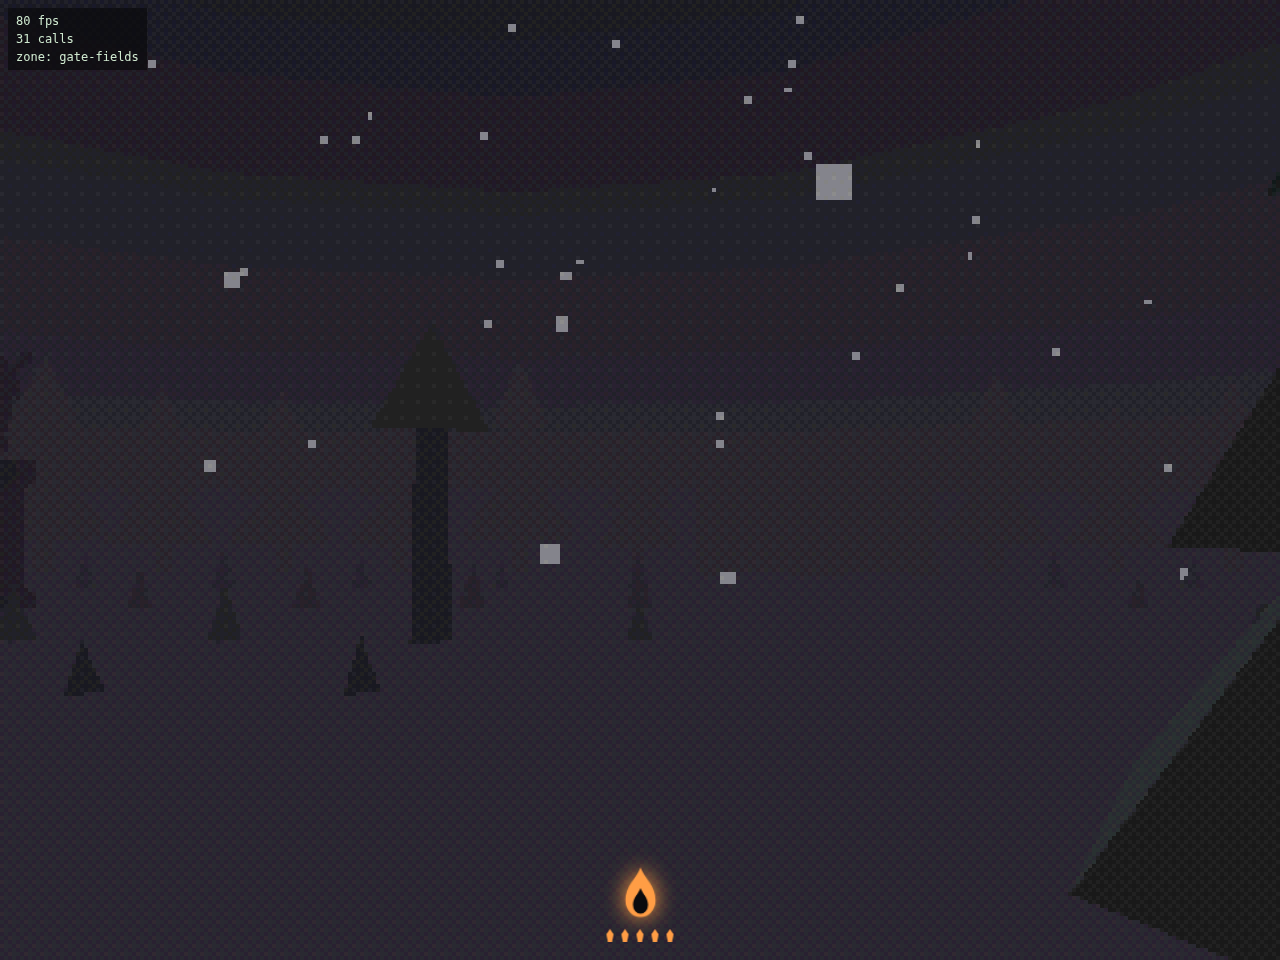
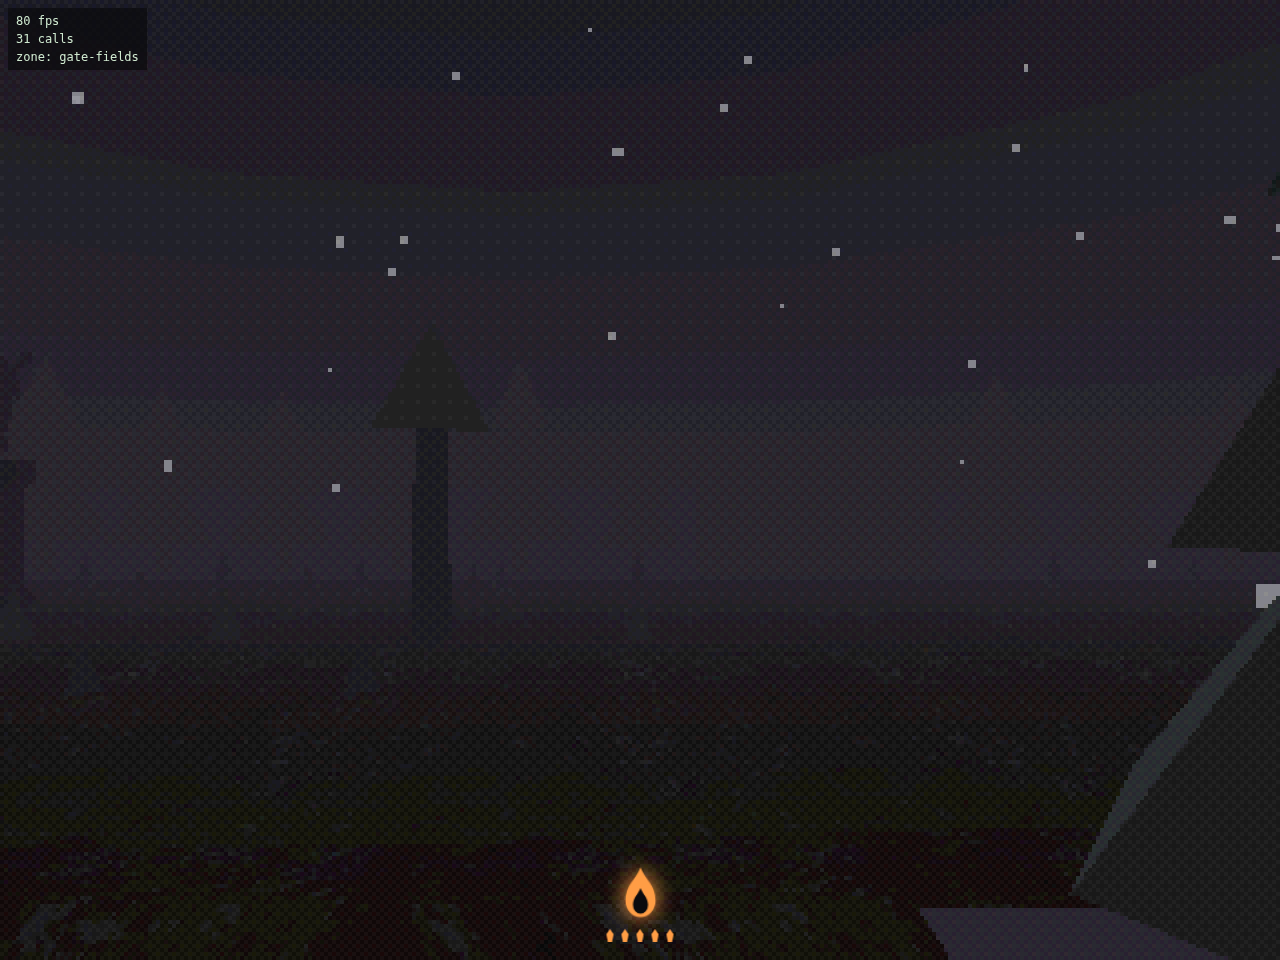
fix(tex): wind exterior ground quads up-facing (+y) — down-wound ground was FrontSide-culled from above

diff --git a/src/world/__tests__/zoneBuilder.test.ts b/src/world/__tests__/zoneBuilder.test.ts
@@ -230,11 +230,23 @@ describe('ZoneBuilder.build (exterior)', () => {
     expect(g!.geometry.getAttribute('uv')).toBeDefined();
   });
 
-  it('keeps the kit merge bucket count at 1 for an exterior zone (≤6 budget)', () => {
+  it('winds the exterior ground up-facing (+y) so it renders from above', () => {
+    const built = new ZoneBuilder().build(exteriorZone(['.,t', 'p#.']), fakeAssets());
+    const g = meshNamed(built.group, 'exterior-ground')!;
+    // Every vertex normal must face up — a down-facing (0,-1,0) winding would be
+    // FrontSide-culled from the player's above-ground viewpoint (and unlit by the moon).
+    const normal = g.geometry.getAttribute('normal');
+    expect(normal).toBeDefined();
+    for (let i = 0; i < normal.count; i++) {
+      expect(normal.getY(i)).toBeGreaterThan(0);
+    }
+  });
+
+  it('keeps the kit merge bucket count at exactly 1 for an exterior zone (≤6 budget)', () => {
     const built = new ZoneBuilder().build(exteriorZone(['H,t', 'T#.']), fakeAssets());
     // only the wall/H atlas remains a kit bucket; ground/skirt/forest are separate meshes
+    expect(mergedNames(built.group)).toEqual(['merged:wall']); // the H ruin block, and nothing else
     expect(mergedNames(built.group).length).toBeLessThanOrEqual(6);
-    expect(mergedNames(built.group)).toContain('merged:wall'); // the H ruin block still buckets
     expect(mergedNames(built.group)).not.toContain('merged:floor');
   });
 });

diff --git a/src/world/ZoneBuilder.ts b/src/world/ZoneBuilder.ts
@@ -396,14 +396,18 @@ function buildExteriorGround(cell: number, spots: ForestSpot[]): Mesh | null {
     const x1 = x + cell / 2;
     const z0 = z - cell / 2;
     const z1 = z + cell / 2;
-    // two tris, CCW facing +y
+    // Two tris wound so the FRONT face (three.js CCW) is +y — the ground must
+    // render from the player's above-ground viewpoint and catch the moonlight.
+    // (Reversed order, e.g. [x0,z0],[x1,z0],[x1,z1], yields normal (0,-1,0):
+    // FrontSide-culled from above. Correct winding beats DoubleSide — half the
+    // fragment work.)
     const corners: [number, number][] = [
       [x0, z0],
-      [x1, z0],
+      [x0, z1],
       [x1, z1],
       [x0, z0],
       [x1, z1],
-      [x0, z1],
+      [x1, z0],
     ];
     for (const [cx, cz] of corners) {
       pos.push(cx, y, cz);
@@ -414,6 +418,9 @@ function buildExteriorGround(cell: number, spots: ForestSpot[]): Mesh | null {
   const geo = new BufferGeometry();
   geo.setAttribute('position', new Float32BufferAttribute(new Float32Array(pos), 3));
   geo.setAttribute('uv', new Float32BufferAttribute(new Float32Array(uv), 2));
+  // flatShading derives face normals in-shader, so this attribute is not needed
+  // to render — kept because the orientation unit test reads it to prove the
+  // winding faces +y (the bug it guards against was a down-wound, culled ground).
   geo.computeVertexNormals();
   const map = getTexture('ground-dirt');
   const material = new MeshStandardMaterial({